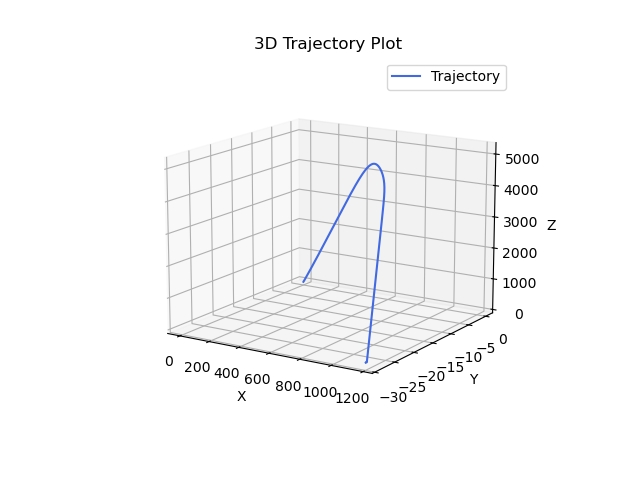
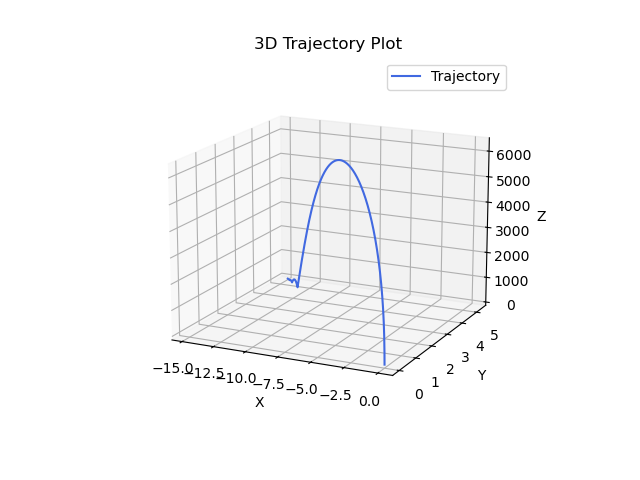
[clean up] - comments, reference area and cd

Changed region(s): [[0.25, 0.25, 0.875, 0.8438]]

diff --git a/src/rocket.rs b/src/rocket.rs
@@ -17,18 +17,23 @@ pub struct Rocket {
 }
 
 impl Rocket {
-    pub fn new(mass: f64, motor: SolidMotor, parachutes: Vec<Parachute>) -> Self {
+    pub fn new(
+        mass: f64,
+        motor: SolidMotor,
+        parachutes: Vec<Parachute>,
+        drag_coefficient: f64,
+        reference_area: f64,
+    ) -> Rocket {
         Rocket {
-            mass: mass,
-            parachutes: parachutes,
+            mass,
+            parachutes,
             position: na::Vector3::new(0.0, 0.0, 0.0),
             velocity: na::Vector3::new(0.0, 0.0, 0.0),
-            orientation: na::UnitQuaternion::from_euler_angles(0.0, 0.1, 0.0),
+            orientation: na::UnitQuaternion::from_euler_angles(0.0, 0.0, 0.0),
             angular_velocity: na::Vector3::new(0.0, 0.0, 0.0),
-            drag_coefficient: 0.5 * 1.225 * 0.1 * 0.1,
-            // NOTE: 5.589E+04 = 0.5 * 1.225 * 0.1 * 0.1
-            reference_area: 0.1,
-            motor: motor,
+            drag_coefficient,
+            reference_area,
+            motor,
         }
     }
     pub fn deploy_parachutes(&mut self, trigger: bool) {

diff --git a/src/main.rs b/src/main.rs
@@ -25,9 +25,18 @@ fn main() -> std::io::Result<()> {
     let drogue_parachute = Parachute::new(DeploymentConfig::Apogee, 0.8);
     let main_parachute = Parachute::new(DeploymentConfig::Altitude(450.0, false), 0.8);
 
+    let reference_area = 0.00933131557; // NOTE: RA = π * (D/2)^2 (at largest diameter D)
+    let drag_coefficient = 0.006125; // NOTE: 5.589E+04 = 0.5 * 1.225 * 0.1 * 0.1
+
     let mut state = SimulationState {
         time: 0.0,
-        rocket: Rocket::new(9.0, solid_motor, vec![main_parachute, drogue_parachute]),
+        rocket: Rocket::new(
+            9.0,
+            solid_motor,
+            vec![main_parachute, drogue_parachute],
+            drag_coefficient,
+            reference_area,
+        ),
         environment: Environment {
             gravity: na::Vector3::new(0.0, 0.0, -9.81),
             air_density: 1.225,

diff --git a/src/simulation.rs b/src/simulation.rs
@@ -29,7 +29,7 @@ impl SimulationState {
         let velocity_relative_to_air = self.rocket.velocity - self.environment.wind_velocity;
         let velocity_magnitude = velocity_relative_to_air.magnitude();
         let drag_direction = -velocity_relative_to_air.normalize();
-        let drag = 0.5
+        let drag = 0.5 // 0.5 * rho * v^2 * Cd * A
             * self.environment.air_density
             * velocity_magnitude.powi(2)
             * self.rocket.drag_coefficient
@@ -75,7 +75,6 @@ impl SimulationState {
         // Parachute deployment logic
         let apogee_reached = self.rocket.velocity.z <= 0.0;
         self.rocket.deploy_parachutes(apogee_reached);
-        let forces = self.calculate_forces();
 
         // Ground collision check
         if self.rocket.position.z < 0.0 {
